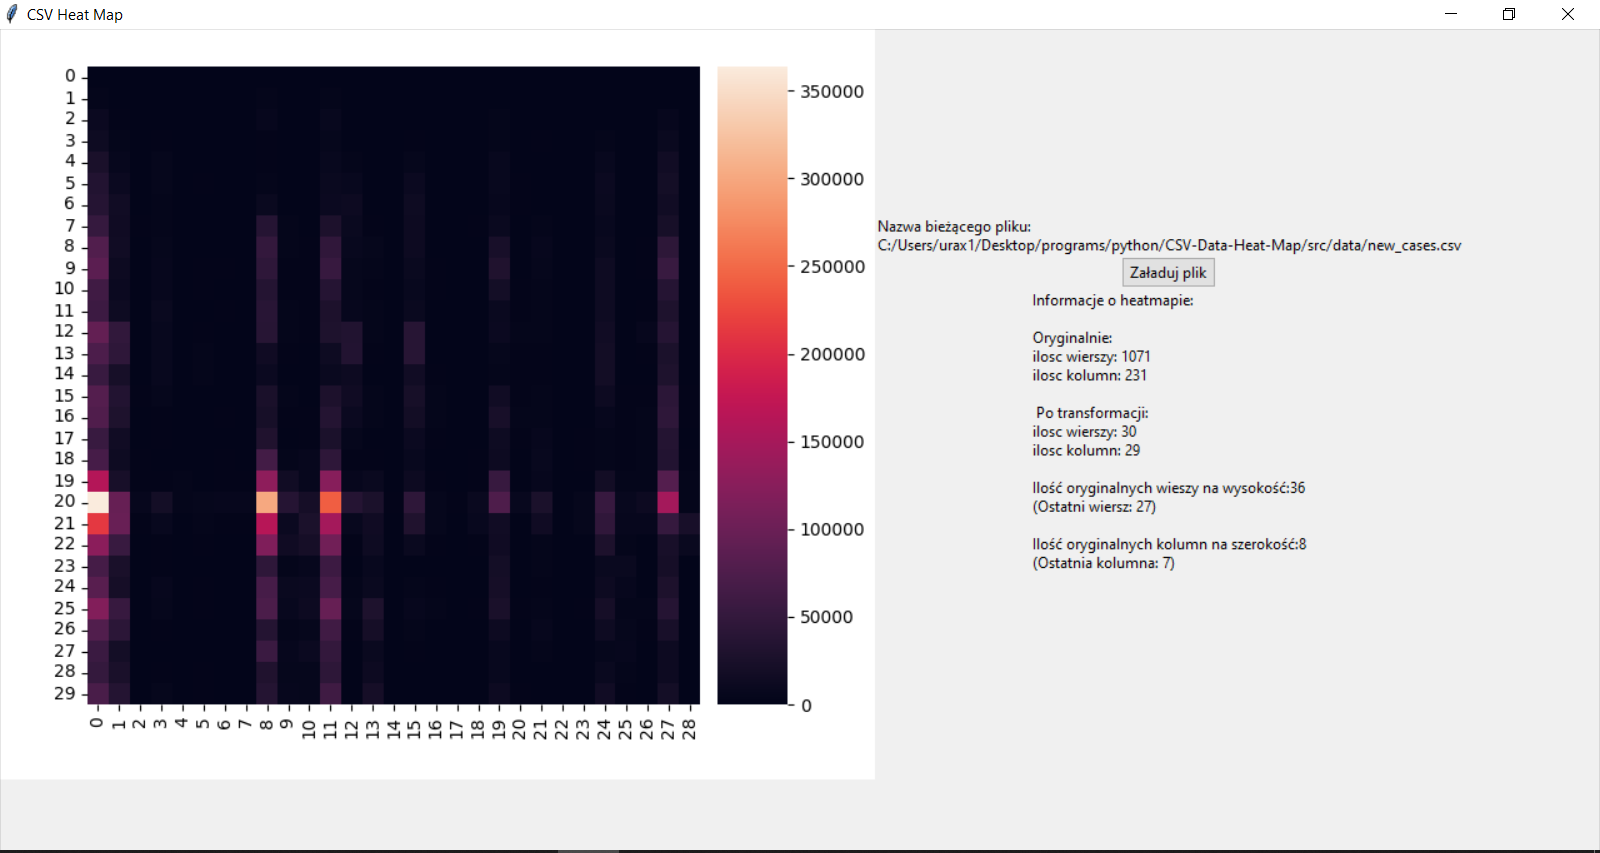
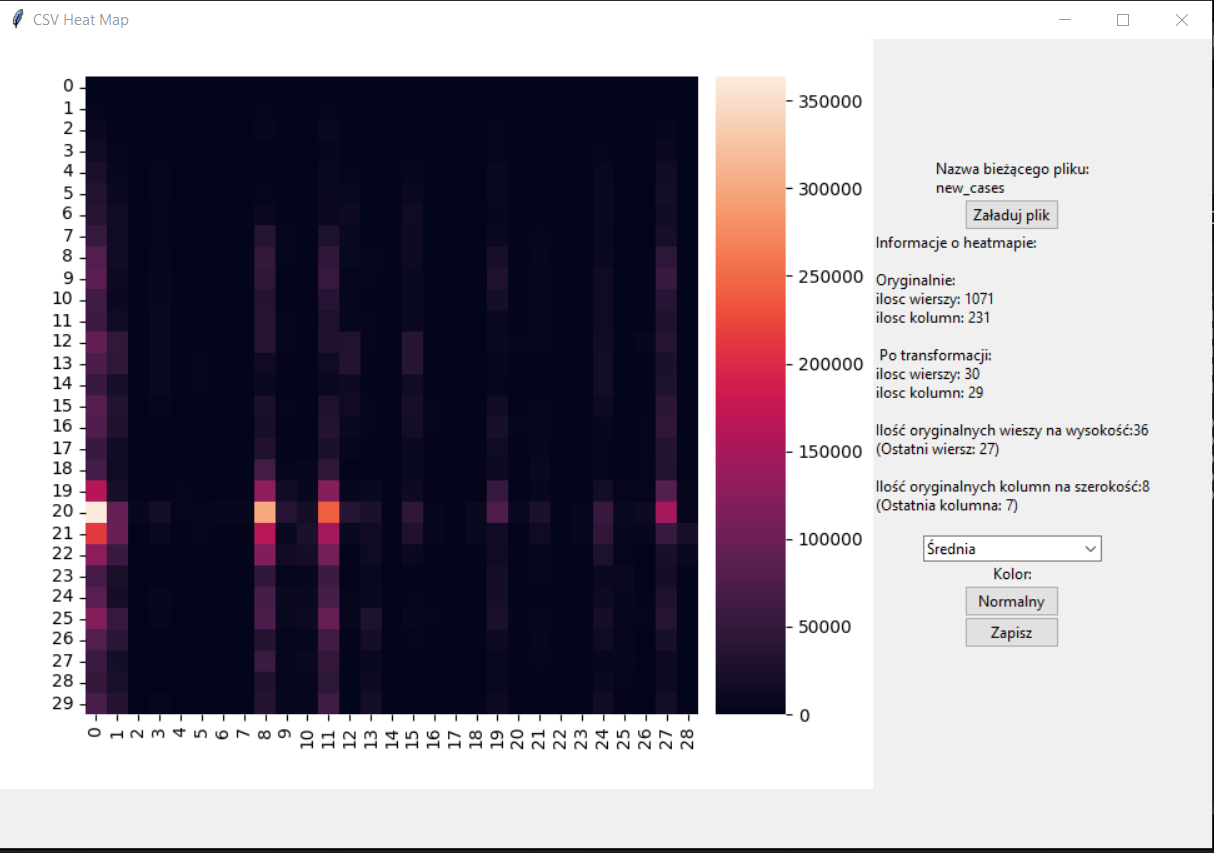
Updated README

diff --git a/README.md b/README.md
@@ -17,9 +17,10 @@ The really basic CSV Data to Heat Map Converter.
 ![Covid-19 New Cases CSV Heat Map_2](/screenshots/new_cov_cases_2.PNG?raw=true "Covid-19 New Cases Data (from 2020 to 2022)")
 ![Covid-19 New Cases CSV Heat Map_3](/screenshots/new_cov_cases_3.PNG?raw=true "Covid-19 New Cases Data (from 2020 to 2022)")
 
-You can easily navigate through the program and use zoom to focus on more important parts of data.
+You can easily navigate through the program and use zoom to focus on more important parts of data, while 
+having a chance to choose aggregation methods, namely: `Sum, Mean, Min, Max`.
 
-Analyzing the data, we could see that the peak of the cases was in January 2022, while the most affected countries were Denmark, Czechia, Germany and Europe as a whole. 
+Analyzing the data, we could see that the peak of the COVID cases was in January 2022, while the most affected countries were Denmark, Czechia, Germany and Europe as a whole. 
 This visualisation could be broken, but it is just "Proof Of Concept".
 
 Of course, this app is just in completely beta-state. Honestly, it is not even beta. So be aware of a lot of bugs and untrustworthy functionality of the app.
